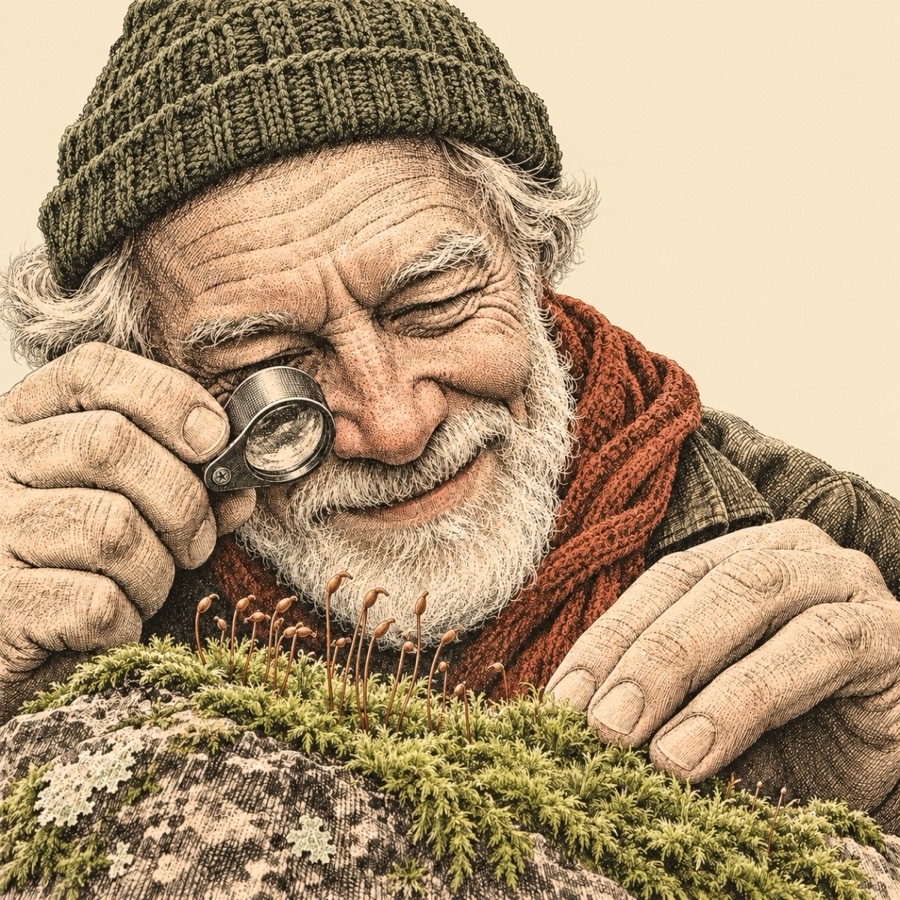
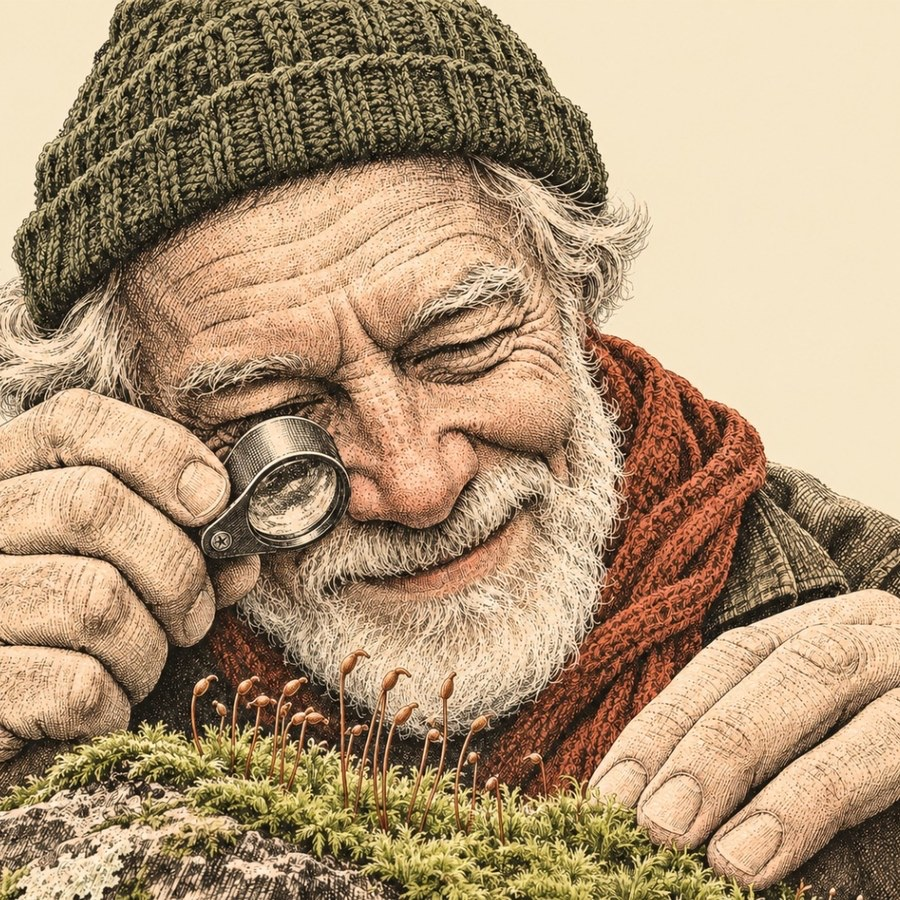
No. 21 art: subjects enlarged to fill the frame, football redrawn without the arm

diff --git a/.claude/skills/sokno-ear-art/SKILL.md b/.claude/skills/sokno-ear-art/SKILL.md
@@ -15,13 +15,15 @@ stay for the portrait and diagram modes and as a fallback.
 
 ## The locked prompt (set with Andy, 2026-11-02)
 
-**The standard is the No. 20 pieces Andy framed and had signed: the upright bass, the opossum, the bull rider, the Día de los Muertos face. One subject, large, crisp black ink, popping off plain cream paper. New pictures must look like the same artist.**
+**The standard is the No. 20 pieces Andy framed and had signed: the upright bass, the opossum, the bull rider, the Día de los Muertos face. One subject, huge, crisp black ink, popping off plain cream paper. New pictures must look like the same artist.**
+
+**Composition (Andy, 2026-11-02, after No. 21 came out with too much white): the subject runs off at least two edges with almost no empty paper. Cream is what shows in the gaps, not a margin around a figure. No. 20 reads iconic because of big dark masses, a bleed off the frame and one idea with a twist; a smiling person centred on paper is a stock illustration. To enlarge a finished picture, ask its own ChatGPT chat to "move in close" (it redraws with new detail, as on the No. 21 football); a plain crop is the fallback. Every hand must clearly belong to someone or be gone: no arm floating in from nowhere. Story cards show the middle 4:3 of a square, so eyes must sit below the top eighth.**
 
 `content/art-style.json` is the wrapper, word for word:
 
 > Generate an image, 1:1 aspect ratio. A vintage local-newspaper engraving: [the subject and what
-> it's doing, the crop, two or three details], large in the frame. Behind it, nothing but plain,
-> clean warm cream paper #F3E8D2, so the subject pops off the page. Predominantly crisp black ink
+> it's doing, the crop, two or three details], large in the frame. It is so big it runs off at least two edges of the square, with almost no empty paper; what little shows is plain,
+> clean warm cream #F3E8D2, so the subject pops off the page. Predominantly crisp black ink
 > linework with stipple dots and cross-hatch shading, strong contrast, slight engraving texture,
 > restrained accents in muted pine green and rust red. Charming and specific, not generic.
 > Hand-drawn local newspaper engraving, not a photograph, not flat vector. No text or letters anywhere.
